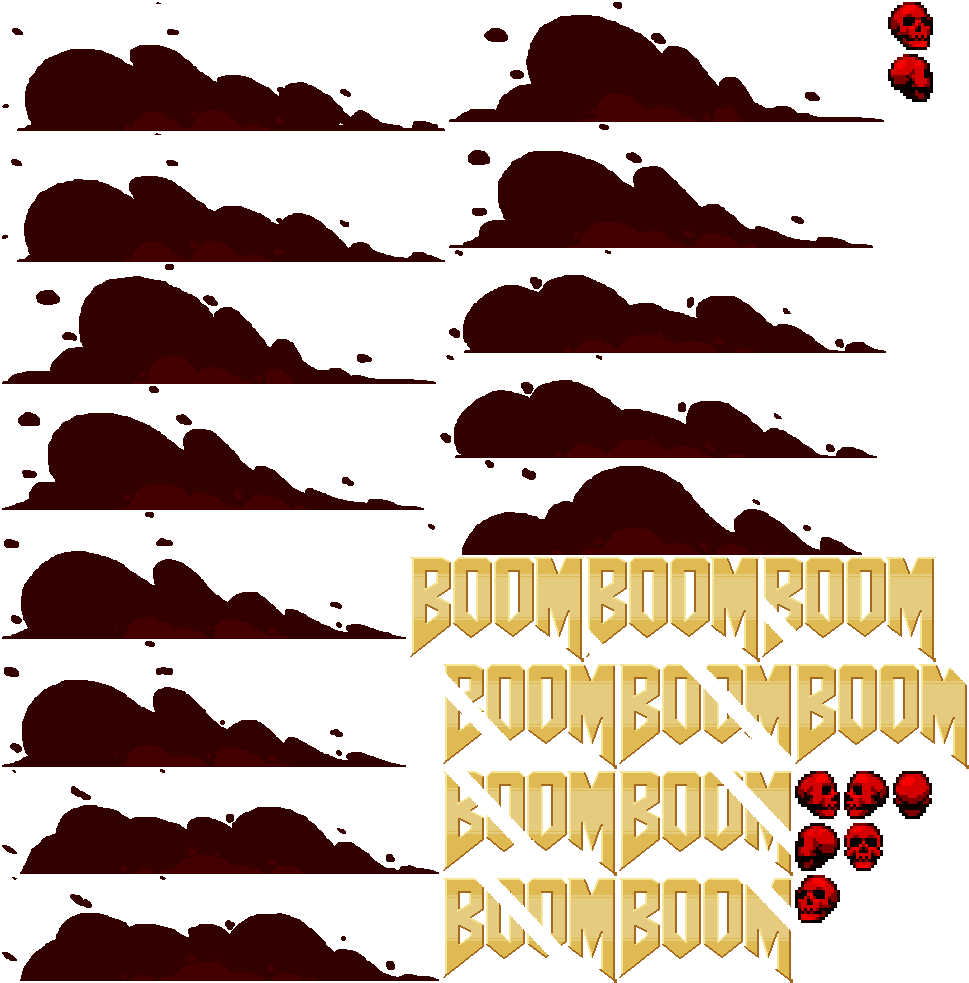
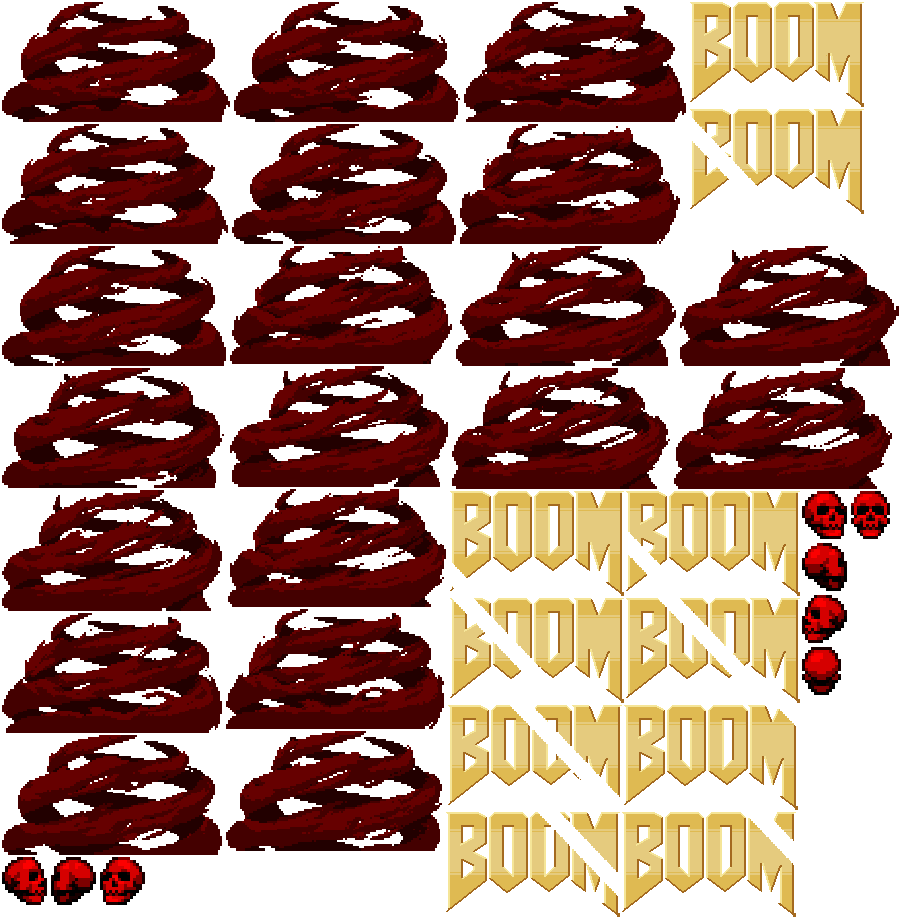
Updated smoke sprite

diff --git a/src/assets/scripts/components/Game/scenes/TitleScene/parsers/index.js b/src/assets/scripts/components/Game/scenes/TitleScene/parsers/index.js
@@ -1,5 +1,5 @@
 import { SCREEN } from 'game/constants/config';
-import { DARK_RED } from 'game/constants/colors';
+import { BLACK } from 'game/constants/colors';
 import { RectangleSprite } from 'game/core/graphics';
 import LogoSprite from '../sprites/LogoSprite';
 import SmokeSprite from '../sprites/SmokeSprite';
@@ -26,7 +26,7 @@ export const parse = ({ graphics }) => {
         background: new RectangleSprite({
           width: SCREEN.WIDTH,
           height: SCREEN.HEIGHT,
-          color: DARK_RED,
+          color: BLACK,
         }),
         smoke: new SmokeSprite(smokeTextures),
       },

diff --git a/src/assets/scripts/components/Game/constants/colors.js b/src/assets/scripts/components/Game/constants/colors.js
@@ -21,12 +21,6 @@ export const GREY = 0x010101;
 export const RED = 0xBC0000;
 
 /**
- * Hex value for dark red.
- * @type {Number}
- */
-export const DARK_RED = 0x260000;
-
-/**
  * Hex value for white.
  * @type {Number}
  */

diff --git a/src/assets/scripts/components/Game/scenes/TitleScene/sprites/SmokeSprite/index.js b/src/assets/scripts/components/Game/scenes/TitleScene/sprites/SmokeSprite/index.js
@@ -17,6 +17,7 @@ class SmokeSprite extends AnimatedSprite {
 
     this.x = (SCREEN.WIDTH / 2) - this.width / 2;
     this.y = SCREEN.HEIGHT - this.height;
+    this.alpha = 0.4;
   }
 }
 
